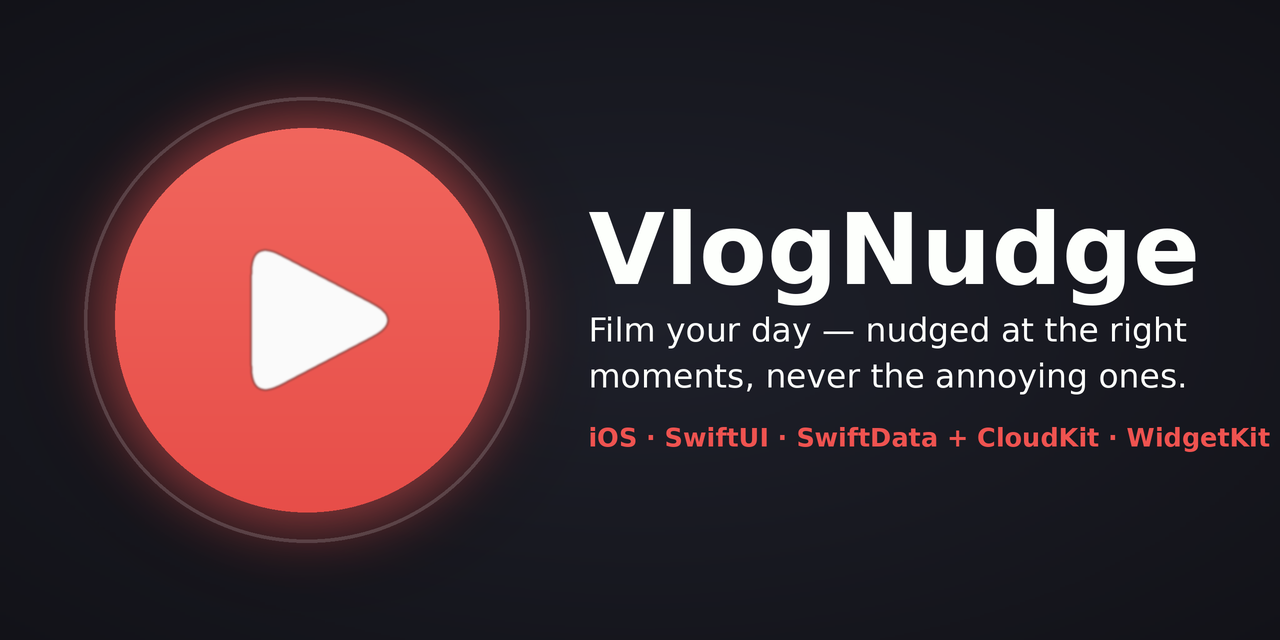
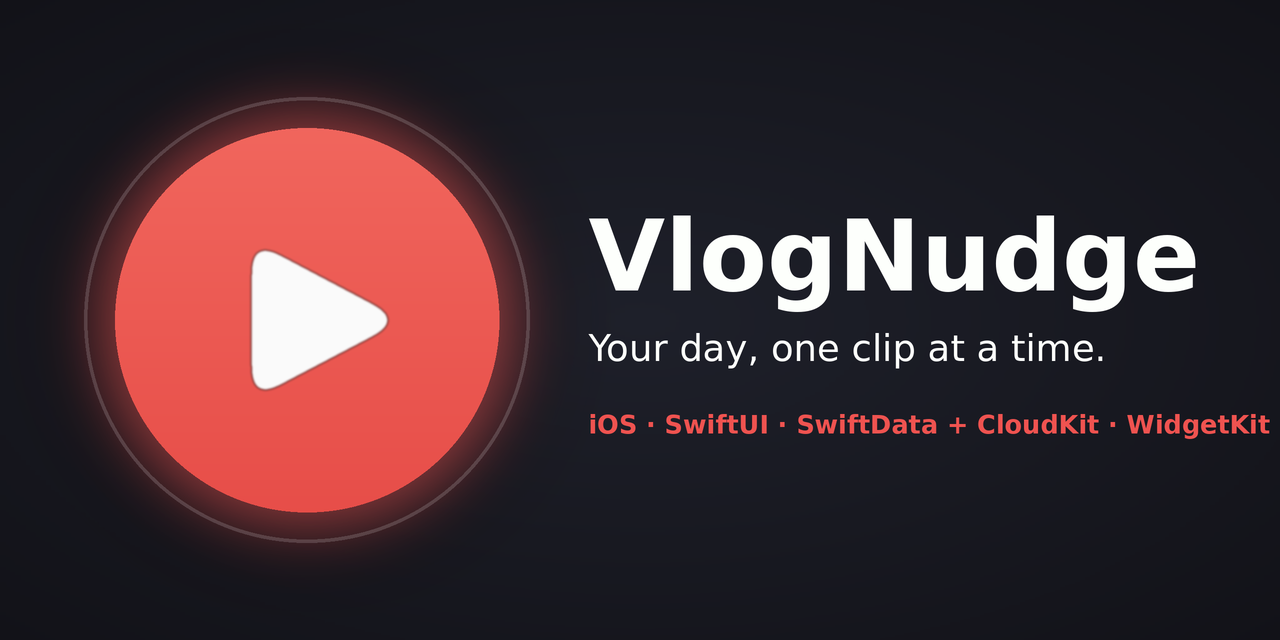
Replace slogan: &quot;Your day, one clip at a time.&quot; (#26)
Update the README tagline and regenerate the social preview image with
the new slogan.

Changed region(s): [[0.4375, 0.3125, 1.0, 0.7188], [0.4688, 0.3125, 0.5312, 0.4688], [0.8125, 0.3125, 0.8438, 0.3438]]

diff --git a/README.md b/README.md
@@ -4,7 +4,7 @@
 ![Swift](https://img.shields.io/badge/Swift-5-EF5350?logo=swift&logoColor=white)
 ![License](https://img.shields.io/badge/license-Proprietary-EF5350)
 
-**An ADHD-aware iOS app that nudges you to capture day-in-the-life vlog clips — at the right moments, never the annoying ones.**
+**Your day, one clip at a time.** An ADHD-aware iOS app that nudges you to film day-in-the-life vlog clips.
 
 VlogNudge watches lightweight, on-device context signals (location, motion, calendar, workouts, Focus, time of day) and decides *when* a short "film a clip" reminder is actually welcome. Clips land in a dedicated Photos album ready for a CapCut editing workflow, and a Live Activity keeps the day's pace glanceable on the Lock Screen.
 
